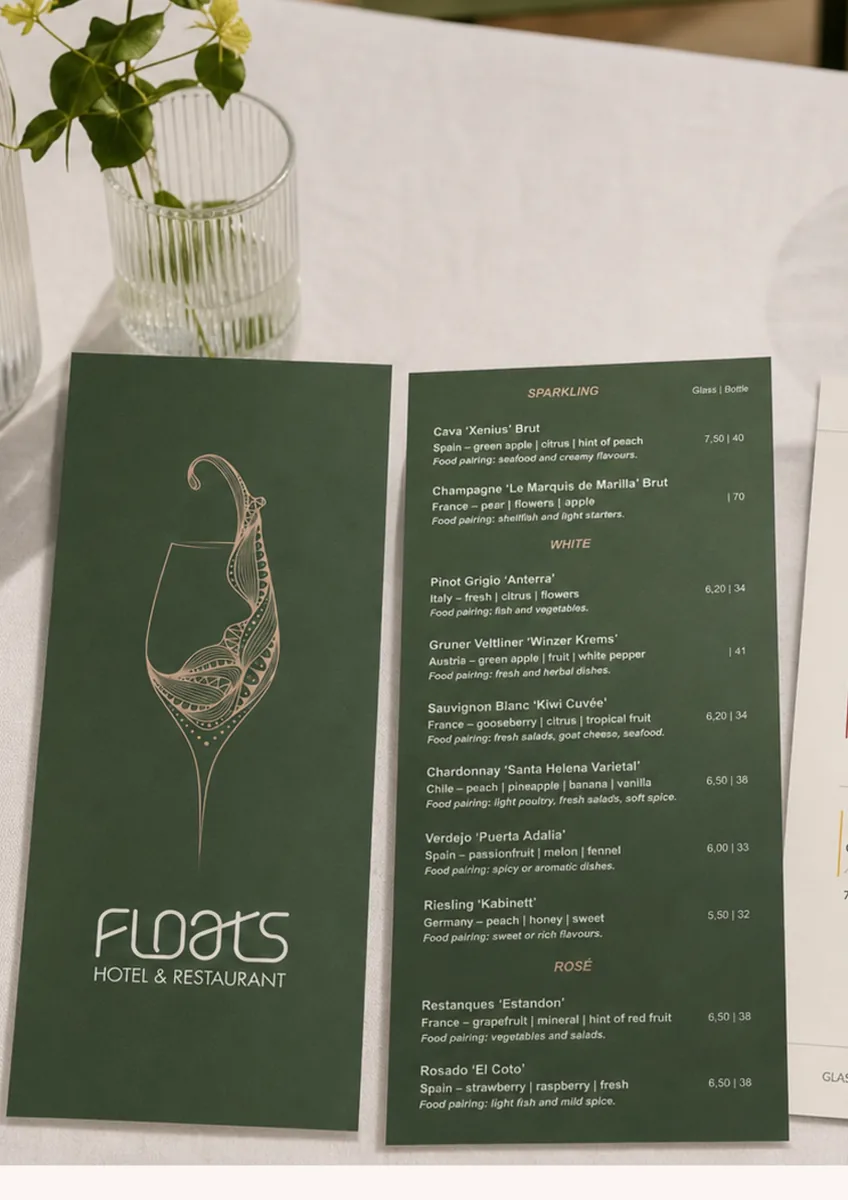
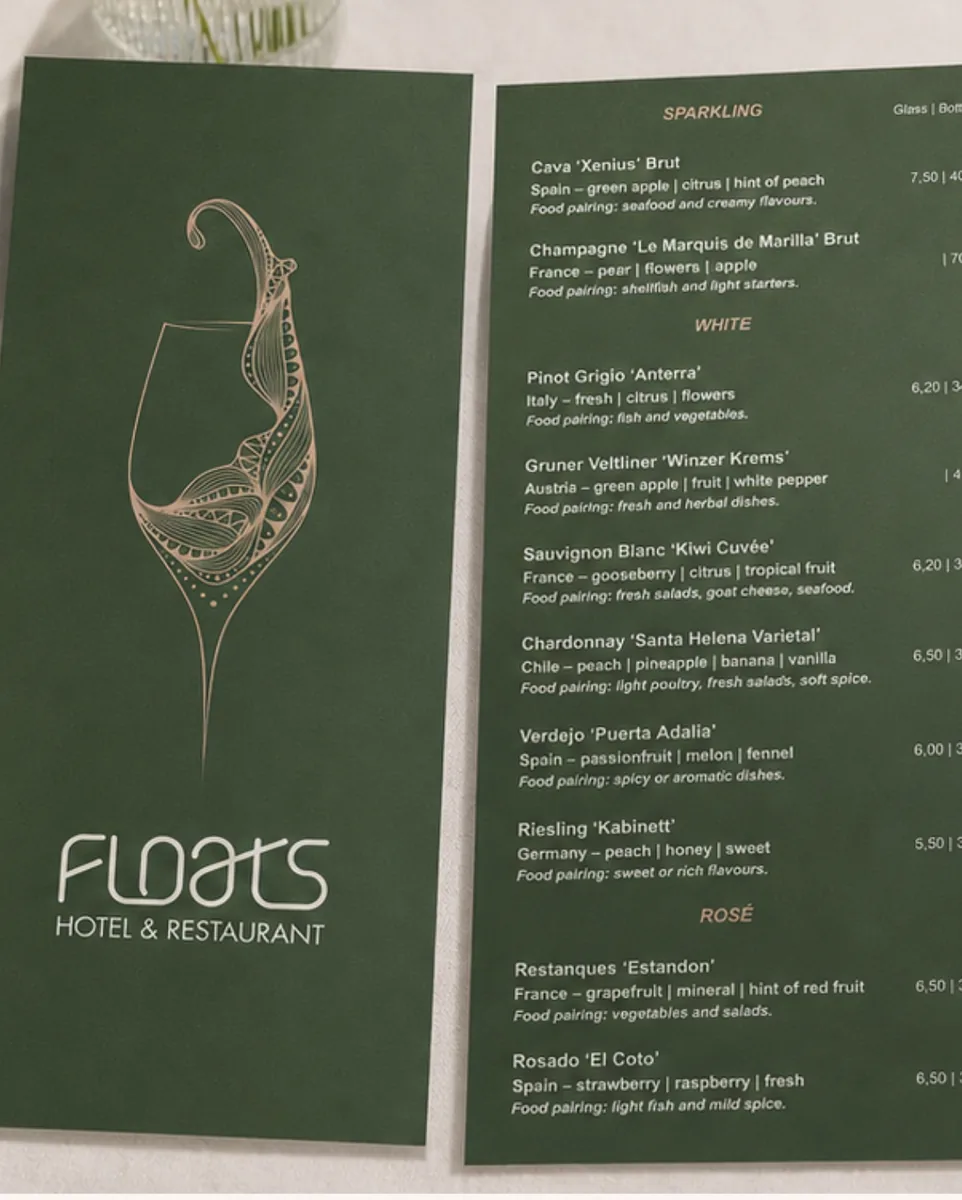
Add Bas & Sebastiaan story photo, recenter Floats case image
- Fill the last remaining placeholder (story section) with the
  vineyard photo of Bas and Sebastiaan.
- Recrop the Floats case photo to drop the leftover sliver of a third
  menu card and center on the wine list next to the branding card.
- Switch case-study images from a 4:3 to a 3:4 crop, matching the
  source photos' portrait orientation so much less gets cropped out
  by object-fit: cover.

Claude-Session: https://claude.ai/code/session_01YVu8pd7TEL9DF9C4KZNphz

diff --git a/horeca/index.html b/horeca/index.html
@@ -46,8 +46,8 @@
 
   <section class="section story" id="verhaal">
     <div class="story__inner">
-      <div class="story__media placeholder-media" aria-hidden="true">
-        <span class="placeholder-media__label">Foto: Bas &amp; Sebastiaan op het wijngoed</span>
+      <div class="story__media">
+        <img src="assets/story-bas-sebastiaan.webp" alt="Bas en Sebastiaan op het wijngoed">
       </div>
       <div class="story__content">
         <p class="eyebrow">Over Vinami</p>

diff --git a/horeca/assets/style.css b/horeca/assets/style.css
@@ -354,8 +354,8 @@ a {
   align-items: center;
 }
 .case__media {
-  aspect-ratio: 4 / 3;
-  min-height: 200px;
+  aspect-ratio: 3 / 4;
+  min-height: 280px;
 }
 .case__meta {
   font-family: var(--font-serif);
